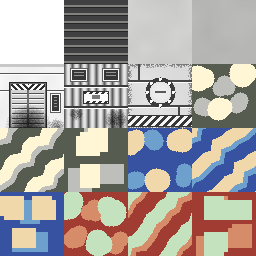
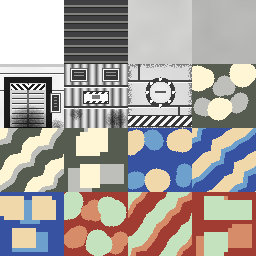
fix: structures read in the render - pale-mix the factory and turret, near-black door frame and chevrons
E11's tile gate passed but the deep-blue side multiply compressed the structures' luma range to
~0.10 on screen. Factory and turret vertex colour is now the hull's pale tint of the side colour
(kHullPaleMix), so the metal detail carries and the team reads as a tint. Door frame is six texels of
near-black (luma <= 0.15), chevrons near-black, slats a deeper step.

Gate: the post-tint threshold is raised 0.10 -> 0.25 and measured under the pale tint as drawn; new
test pins the door frame and chevrons near-black. Tests 720.

Changed region(s): [[0.0, 0.2812, 0.2188, 0.5]]

diff --git a/tests/test_atlas.cpp b/tests/test_atlas.cpp
@@ -553,7 +553,8 @@ constexpr int kMinSeamTexels = 150;
 constexpr double kSeamLuma = 0.45;
 constexpr int kMinPlateTexels = 600;
 constexpr double kPlateLuma = 0.80;
-constexpr double kMinTintedRange = 0.10;
+constexpr double kMinTintedRange = 0.25; ///< E11b: was 0.10, which a flat deep tint just met
+constexpr double kNearBlackLuma = 0.15;  ///< the door frame and the chevrons
 
 TEST(AtlasPaint, TheTurretAndFactoryTilesCarryVisibleLuminanceDetail) {
     const auto px = protekt::game::atlas_pixels();
@@ -577,18 +578,37 @@ TEST(AtlasPaint, TheTurretAndFactoryTilesCarryVisibleLuminanceDetail) {
         EXPECT_GE(hi - lo, kMinStructureRange) << "tile " << tile;
         EXPECT_GE(seams, kMinSeamTexels) << "tile " << tile;
         EXPECT_GE(plates, kMinPlateTexels) << "tile " << tile;
-        for (const auto& side : kSideColours) {
+        // AS DRAWN: the structures take the hull's pale tint of their side colour.
+        const auto tinted_range = [&](const std::array<float, 3>& tint) {
             double tlo = 1.0;
             double thi = 0.0;
             for (int y = 0; y < 64; ++y) {
                 for (int x = 0; x < 64; ++x) {
-                    const double l = luma(tinted(texel(px, tile, x, y), side));
+                    const double l = luma(tinted(texel(px, tile, x, y), tint));
                     tlo = std::min(tlo, l);
                     thi = std::max(thi, l);
                 }
             }
-            EXPECT_GE(thi - tlo, kMinTintedRange) << "tile " << tile << " after the tint";
+            return thi - tlo;
+        };
+        for (const auto& side : kSideColours) {
+            EXPECT_GE(tinted_range(hull_tint(side)), kMinTintedRange)
+                << "tile " << tile << " under the pale tint";
         }
+    }
+}
+
+TEST(AtlasPaint, TheFactoryWallsDoorFrameAndChevronsAreNearBlack) {
+    const auto px = protekt::game::atlas_pixels();
+    int dark = 0;
+    for (int y = 13; y < 64; ++y) {
+        for (int x = 4; x < 52; ++x) {
+            dark += luma(texel(px, 4, x, y)) <= kNearBlackLuma ? 1 : 0;
+        }
+    }
+    EXPECT_GE(dark, 300);
+    for (int x = 4; x <= 9; ++x) { // the frame's left side is six texels of near-black
+        EXPECT_LE(luma(texel(px, 4, x, 40)), kNearBlackLuma) << "x " << x;
     }
 }
 

diff --git a/src/game/atlas.cpp b/src/game/atlas.cpp
@@ -465,15 +465,18 @@ Tile paint_factory_wall(std::uint64_t seed, int tile_index) {
     // The door: x 10..45, y 19..63, a dark frame, light slats split by dark gaps.
     fill_rect(tile, 10, 19, 45, 63, 212);
     for (int y = 29; y <= 63; y += 5) {
-        fill_rect(tile, 12, y, 43, y, 80);
+        fill_rect(tile, 12, y, 43, y, 60);
         fill_rect(tile, 12, y + 1, 43, y + 1, 250);
     }
     fill_rect(tile, 27, 19, 28, 63, 110); // the meeting of its two leaves
-    frame_rect(tile, 9, 18, 46, 63, 40);
-    frame_rect(tile, 10, 19, 45, 63, 110);
+    // A heavy near-black frame, six texels thick: a face is ~50 px across at gameplay distance, so
+    // anything thinner is under four pixels.
+    for (int i = 0; i < 6; ++i) {
+        frame_rect(tile, 4 + i, 13 + i, 51 - i, 63, 28);
+    }
     for (int y = 20; y <= 25; ++y) { // the chevron band over the door
         for (int x = 11; x <= 44; ++x) {
-            put(tile, x, y, (((std::abs(x - 28) + y) / 3) % 2) == 0 ? 45 : 250);
+            put(tile, x, y, (((std::abs(x - 28) + y) / 3) % 2) == 0 ? 28 : 250);
         }
     }
     vent(tile, 52, 31, 58, 46);

diff --git a/src/game/scene.cpp b/src/game/scene.cpp
@@ -312,6 +312,11 @@ void build_unit_box(std::vector<SceneVertex>& out, std::uint64_t seed, const sim
     const bool factory = unit.kind == sim::UnitKind::Factory;
     const UvRect sides = atlas.rect(factory ? "factory_walls" : "turret_body");
     const UvRect top = factory ? atlas.rect("factory_roof") : sides;
+    // Pale-mixed like the hull: the deep side colour would multiply the tile's detail down to a
+    // tenth of a luma step; the pale tint lets the metal carry and the team read through as a tint.
+    for (float& channel : colour) {
+        channel += (1.0F - channel) * kHullPaleMix;
+    }
     emit_turned_prism(out, x, z, 0.0F,
                       Prism{-half_width, half_width, -half_width, -half_width, half_width,
                             half_width, ground, ground + height, ground + height},
